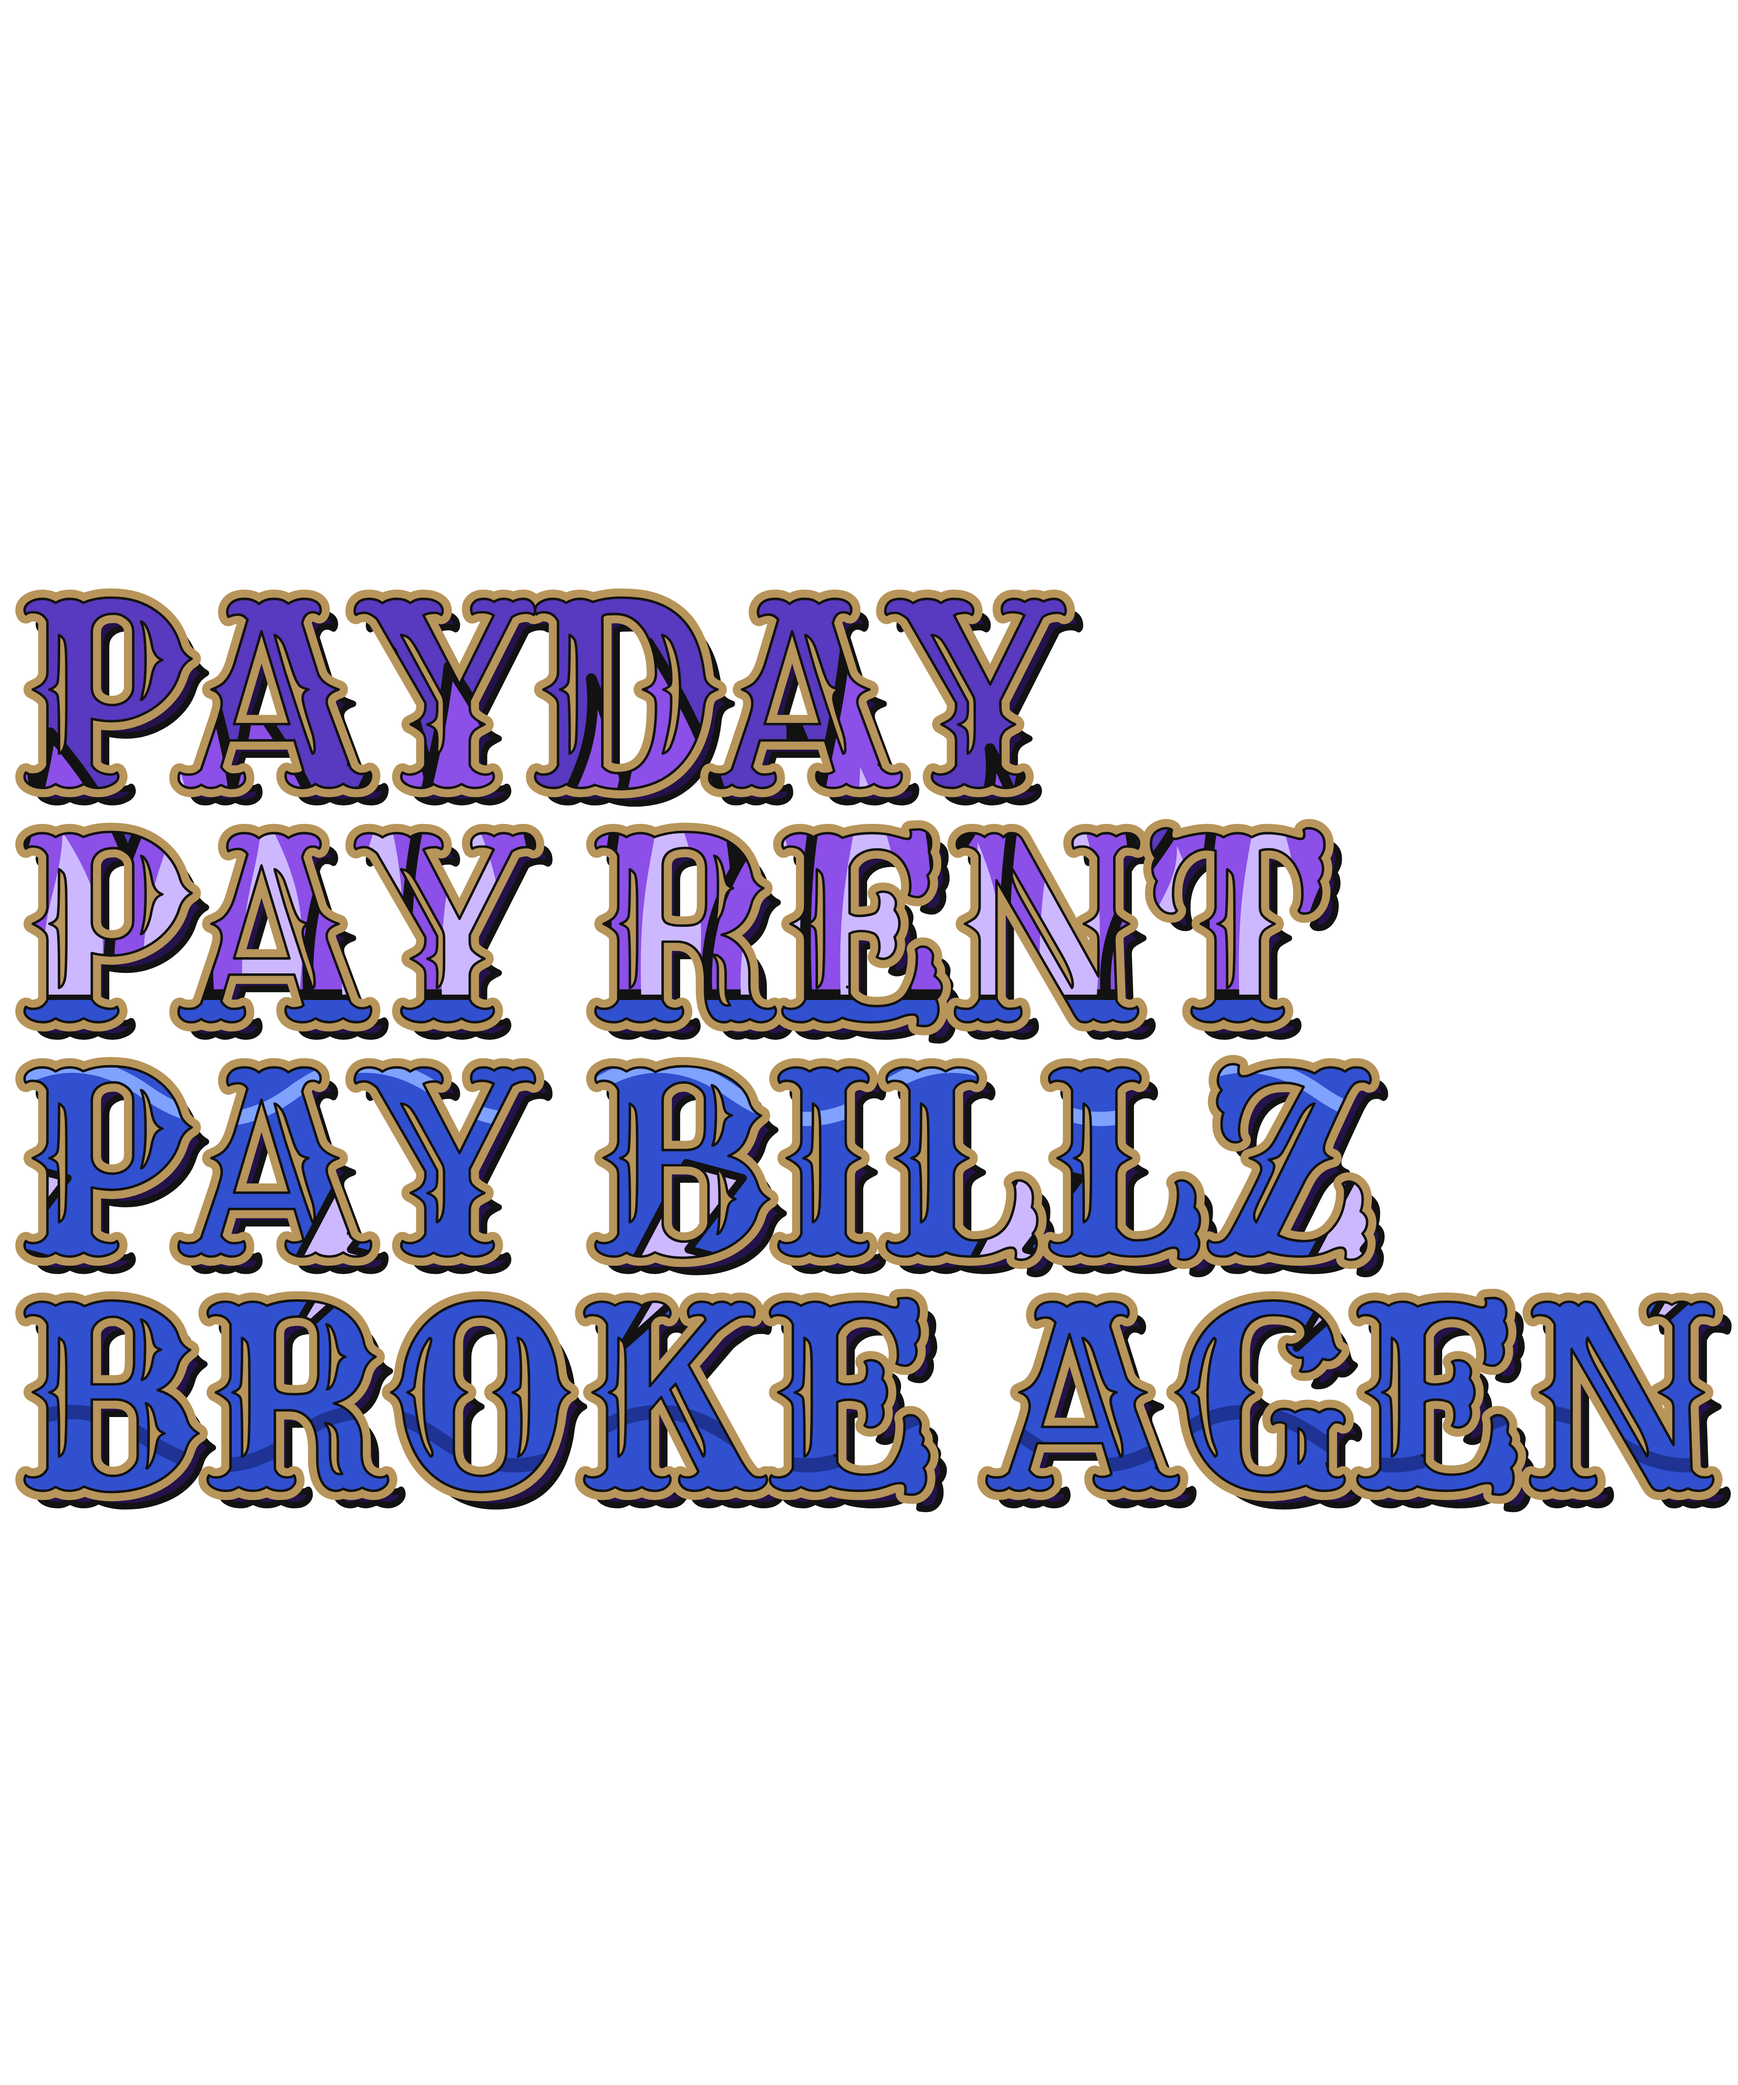
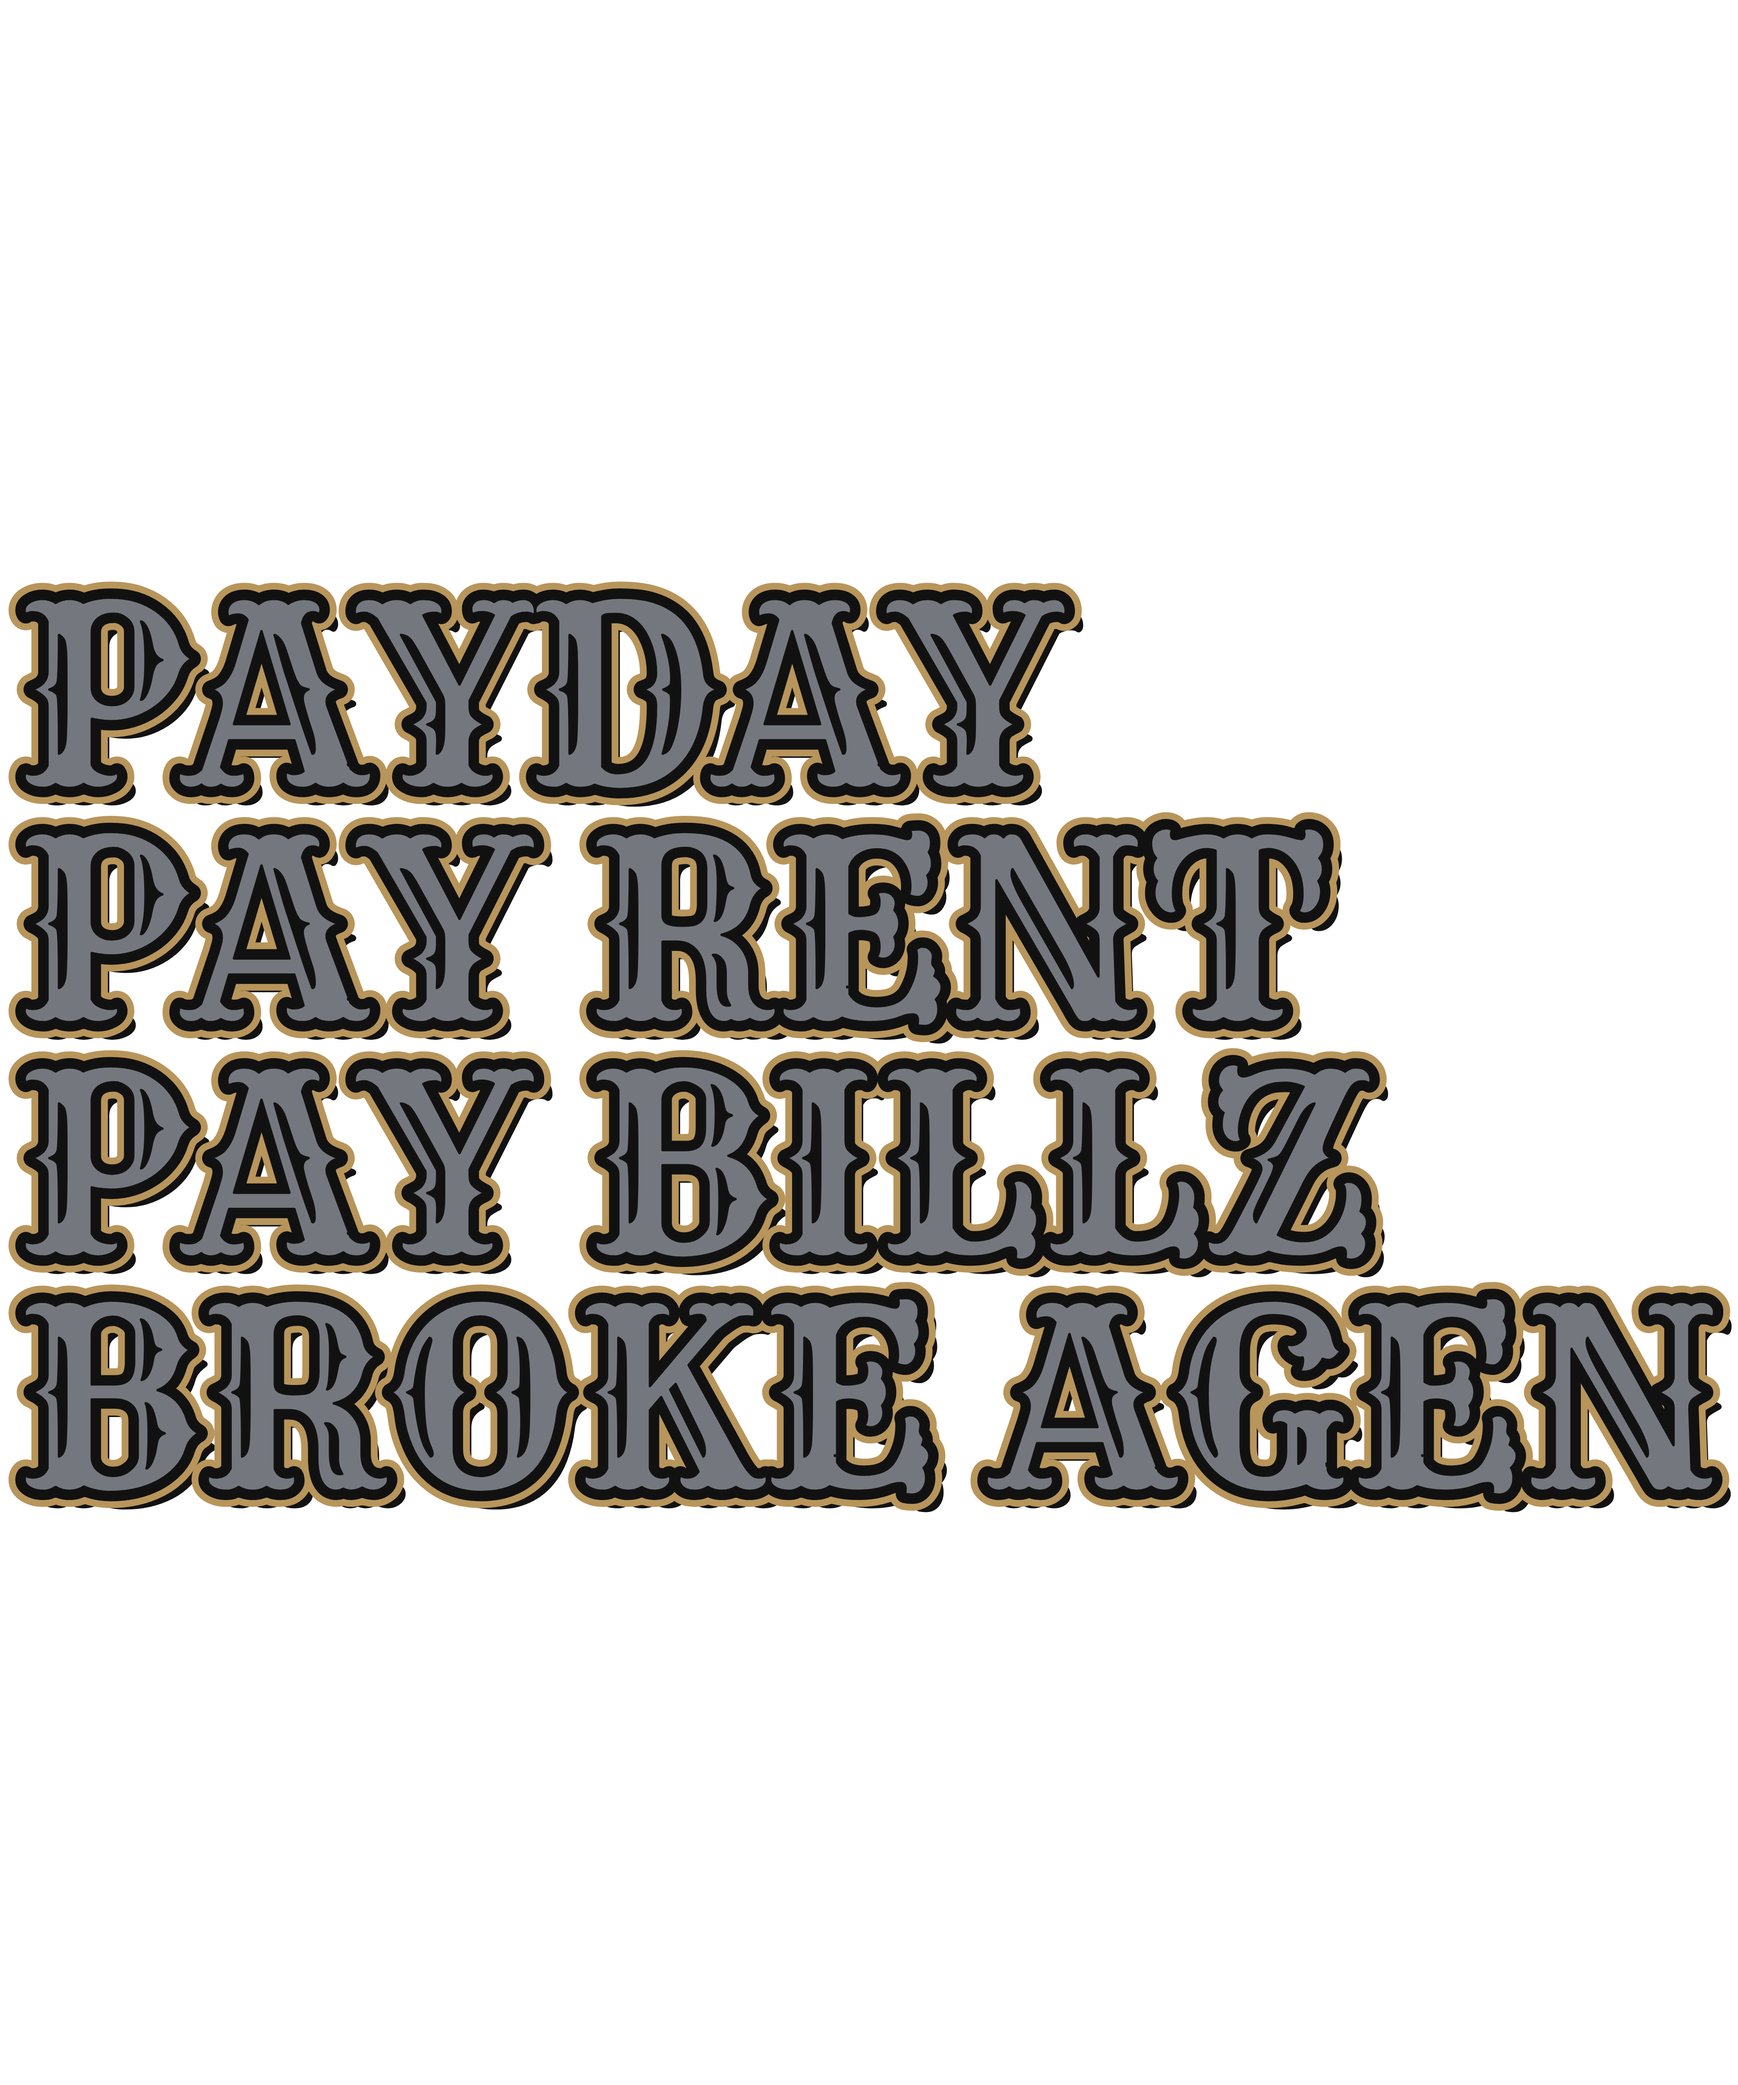
Series 01: flat matte grey letters with bold black and gold outlines
Front chest logo and all ten backs now use a single matte grey fill with
a hard black inner outline and matte-gold outer outline (thicker on the
4 in chest file so it prints cleanly). README updated.

Claude-Session: https://claude.ai/code/session_01SBY6dR2H7LfBCYUkSdoXAH

Changed region(s): [[0.0, 0.28, 0.9956, 0.7467]]

diff --git a/designs/series-01/README.md b/designs/series-01/README.md
@@ -4,17 +4,17 @@
 
 ![Front and back](../previews/series-01-front-back.jpg)
 
-Ten tees: the **GiggleMe logo** (with a double-height G and M) on the front left chest, and a stacked saying across the back at Printful's biggest back size. Front and back letters match: tattoo-style art inside each letter in **royal blue and royal purple** (blue waves, purple flames, lilac lightning; no roses or stars), a deep purple shadow, and a bold **matte-gold outline**. Every letter on a back is the same size, every line starts at the same left edge, and the block is centered top to bottom.
+Ten tees: the **GiggleMe logo** (with a double-height G and M) on the front left chest, and a stacked saying across the back at Printful's biggest back size. Front and back letters match: a clean, flat **matte grey** inside every letter, with a hard **bold black outline** and a **matte-gold outer outline**, plus a black drop shadow. Every letter on a back is the same size, every line starts at the same left edge, and the block is centered top to bottom.
 
 ## Files
 
 | File | Where it prints | Size |
 |---|---|---|
-| `logo-left-chest.png` | **Front, left chest** (same file on every shirt): GiggleMe with the first G and the M at double height, in the same royal/gold style as the backs | 1200 × 267 px · 4 in wide · 300 DPI |
+| `logo-left-chest.png` | **Front, left chest** (same file on every shirt): GiggleMe with the first G and the M at double height, in the same grey, black and gold style as the backs | 1200 × 267 px · 4 in wide · 300 DPI |
 | `<design>/back-print.png` | **Back**, oversize | 4500 × 5400 px · 15 × 18 in · 300 DPI |
 | `<design>/mockup.png` | Preview only | |
 
-This royal-and-gold look is made for **black and charcoal** shirts (navy works but the royal blue blends in more). On white or cream the gold outline reads softer.
+This grey, black and gold look works on **black, charcoal, navy and heather** shirts. On white or cream the black outline carries it and the gold reads softer.
 
 ## Set it up in Printful
 
